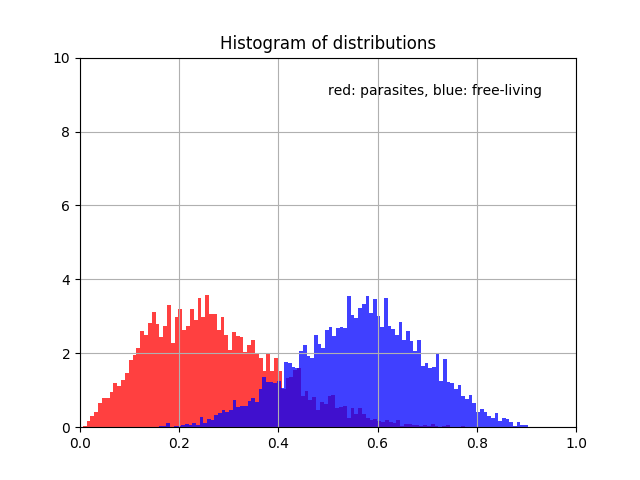
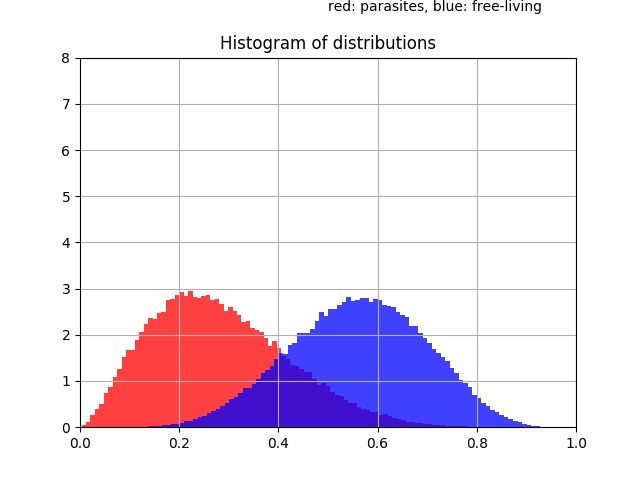
find better beta distributions

diff --git a/simulation/find_best_betadist.py b/simulation/find_best_betadist.py
@@ -30,9 +30,13 @@ def main():
     global START_TIME
     global CURRENT_TIME
     #               [percentage parasites, A_FL, B_FL, A_P, B_P]
-    beta_distribution_parameters = [0.4, 8.0, 6.25, 3.0, 8.0]   # 40 P - 60 FL
-    # beta_distribution_parameters = [0.5, 7.0, 3.5, 3.5, 7.0]    # 50 P - 50 FL
-    realP = beta_distribution_parameters[0]*100                 # percentage of parasites (percentage +-2%)
+
+    # beta_distribution_parameters = [0.1, 7, 24, 0.5, 7]     # 10 P - 90 FL
+    # beta_distribution_parameters = [0.2, 7, 13.25, 1.25, 7] # 20 P - 80 FL
+    # beta_distribution_parameters = [0.3, 7, 8.5, 2, 7]      # 30 P - 70 FL
+    # beta_distribution_parameters = [0.4, 7, 5.5, 2.75, 7]   # 40 P - 60 FL
+    beta_distribution_parameters = [0.5, 7, 3.5, 3.5, 7]    # 50 P - 50 FL
+    realP = beta_distribution_parameters[0]*100             # percentage of parasites (percentage +-2%)
 
     # -------------------------------------plot distribution------------------------------------
     #   for freeliving_distribution
@@ -41,8 +45,8 @@ def main():
     #   for parasite_distribution
     A_P = beta_distribution_parameters[3]
     B_P = beta_distribution_parameters[4]
-    freeliving_distribution = random.beta(a=A_FL, b=B_FL, size=5000)
-    parasite_distribution = random.beta(a=A_P, b=B_P, size=5000)
+    freeliving_distribution = random.beta(a=A_FL, b=B_FL, size=100000)
+    parasite_distribution = random.beta(a=A_P, b=B_P, size=100000)
 
     # the histogram of the data
     n, bins, patches = plt.hist(parasite_distribution, 100, normed=1, facecolor='r', alpha=0.75)
@@ -52,7 +56,7 @@ def main():
     # plt.ylabel('Probability')
     plt.title('Histogram of distributions')
     plt.text(0.5, 9, r'red: parasites, blue: free-living')
-    plt.axis([0, 1, 0, 10])
+    plt.axis([0, 1, 0, 8])
     plt.grid(True)
     plt.show()
     #-------------------------------------------------------------------------------------------

diff --git a/simulation/main.py b/simulation/main.py
@@ -28,12 +28,20 @@ number_trees = int(sys.argv[2])         # number of simulated trees
 percentage_parasites = float(sys.argv[3]) # between 0 and 1
 percentage_unknown = float(sys.argv[4])   # between 0 and 1
 
-# decide for distribution:
-# if percentage_parasites == 0.4:
                             # [A_FL, B_FL, A_P, B_P]
-beta_distribution_parameters = [8.0, 6.25, 3.0, 8.0]   # 40 P - 60 FL
-if percentage_parasites == 0.5:
-    beta_distribution_parameters = [7.0, 3.5, 3.5, 7.0]    # 50 P - 50 FL
+beta_distribution_parameters = [0.5, 7, 3.5, 3.5, 7]   # 40 P - 60 FL
+
+# decide for distribution:
+if percentage_parasites == 0.1:
+    beta_distribution_parameters = [7, 24, 0.5, 7]     # 10 P - 90 FL
+elif percentage_parasites == 0.2:
+        beta_distribution_parameters = [0.2, 7, 13.25, 1.25, 7] # 20 P - 80 FL
+elif percentage_parasites == 0.3:
+    beta_distribution_parameters = [0.3, 7, 8.5, 2, 7]      # 30 P - 70 FL
+elif percentage_parasites == 0.4:
+    beta_distribution_parameters = [0.4, 7, 5.5, 2.75, 7]   # 40 P - 60 FL
+elif percentage_parasites == 0.5:
+    beta_distribution_parameters = [0.5, 7, 3.5, 3.5, 7]    # 50 P - 50 FL
 
 def main():
     """Main method"""
